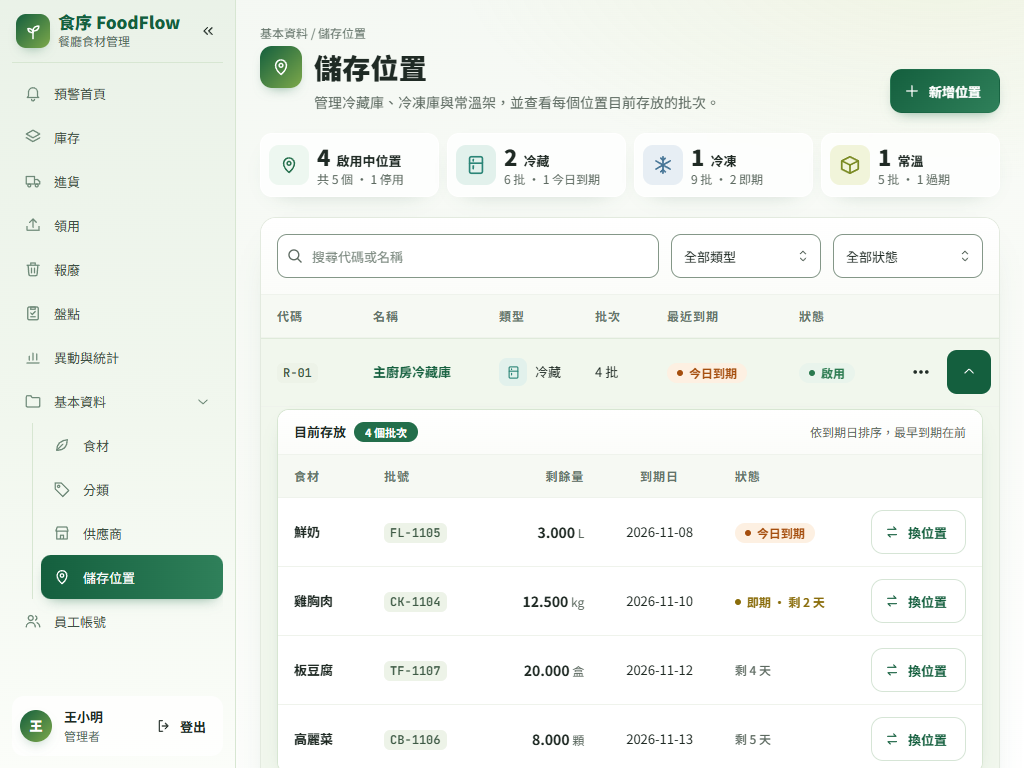
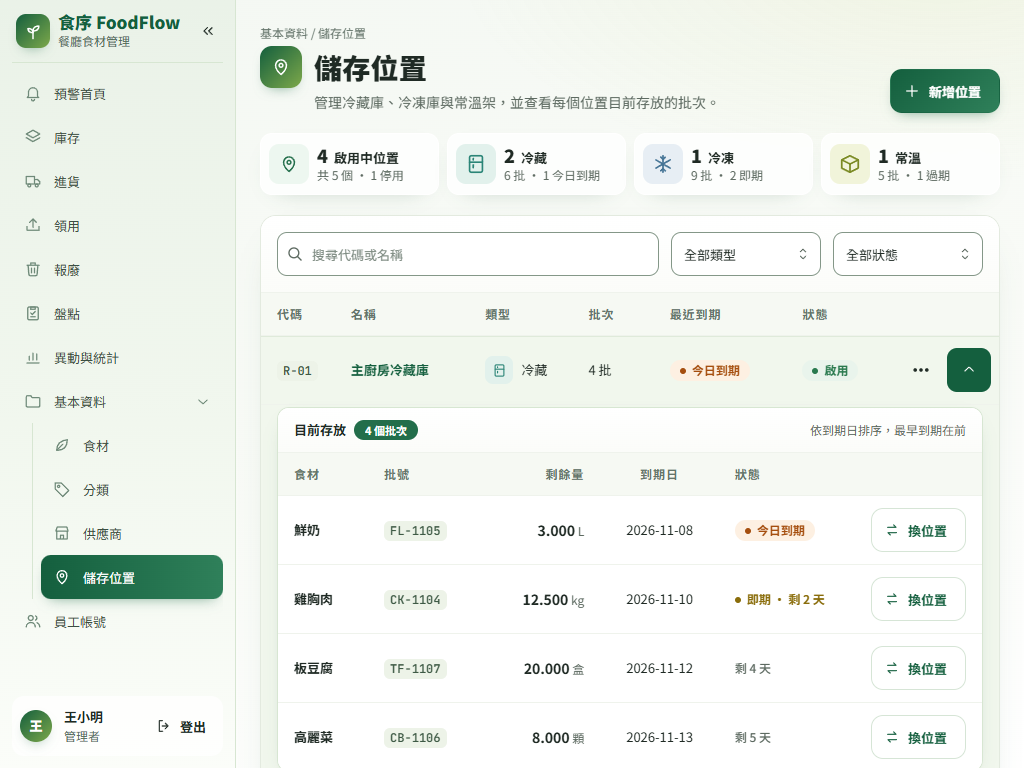
style(ui): 位置表欄寬往左分散、摘要數字縮小、下拉選單加動畫、領用紀錄操作欄置中

diff --git a/frontend/src/features/storage_location/pages/StorageLocationsPage.tsx b/frontend/src/features/storage_location/pages/StorageLocationsPage.tsx
@@ -81,7 +81,7 @@ function SummaryCard({ icon, label, value, note, index }: {
       {icon}
       <Box style={{ minWidth: 0, whiteSpace: "nowrap" }}>
         <Group gap={6} wrap="nowrap" align="baseline">
-          <Text fz={22} fw={800} lh={1.1} data-summary-value>{value}</Text>
+          <Text fz={18} fw={800} lh={1.2} data-summary-value>{value}</Text>
           <Text fz="sm" fw={600} truncate>{label}</Text>
         </Group>
         {/* 數字更大時以刪節號收尾，不換行也不溢出卡片。 */}
@@ -309,8 +309,9 @@ export function StorageLocationsPage() {
   const columnCount = 7;
   const list = () => {
     if (layout === "table") return <DataTable flush head={<>
-      <Table.Th w={96}>代碼</Table.Th><Table.Th>名稱</Table.Th><Table.Th w={96}>類型</Table.Th>
-      <Table.Th w={72}>批次</Table.Th><Table.Th w={132}>最近到期</Table.Th><Table.Th w={92}>狀態</Table.Th>
+      {/* 名稱只拿剩下的寬度（約四分之一），右側四欄往左分散，不會擠在一起。 */}
+      <Table.Th w="10%">代碼</Table.Th><Table.Th>名稱</Table.Th><Table.Th w="14%">類型</Table.Th>
+      <Table.Th w="11%">批次</Table.Th><Table.Th w="18%">最近到期</Table.Th><Table.Th w="12%">狀態</Table.Th>
       <Table.Th w={isAdmin ? 124 : 76}><VisuallyHidden>操作與批次</VisuallyHidden></Table.Th>
     </>}>
       {items.map((location, index) => {

diff --git a/frontend/src/app/theme.ts b/frontend/src/app/theme.ts
@@ -74,6 +74,8 @@ const green = ramp("#e9f4ec", "#2a7a4f", "#1f5e3c");
 
 export const theme = createTheme({
   primaryColor: "forest",
+  // 系統設定「減少動態」時略過 Mantine 元件的轉場（下拉選單、選單、對話框）。
+  respectReducedMotion: true,
   // 實心元件用 index 8（#236E4B，白字 6.17:1），淺色變體的文字也用 index 8。
   primaryShade: { light: 8, dark: 8 },
   colors: {
@@ -133,7 +135,11 @@ export const theme = createTheme({
     }),
     TextInput: TextInput.extend({ styles: { input: { minHeight: 44 } } }),
     PasswordInput: PasswordInput.extend({ styles: { input: { minHeight: 44 } } }),
-    Select: Select.extend({ styles: { input: { minHeight: 44 } } }),
+    // 下拉選單展開時淡入並稍微放大，跟「⋯」選單一樣有動畫；系統設定減少動態時 Mantine 會略過。
+    Select: Select.extend({
+      defaultProps: { comboboxProps: { transitionProps: { transition: "pop", duration: 160 } } },
+      styles: { input: { minHeight: 44 } },
+    }),
     Modal: Modal.extend({
       defaultProps: {
         radius: "xl", shadow: "lg", padding: 24,

diff --git a/frontend/src/features/issue/components/RecentIssues.tsx b/frontend/src/features/issue/components/RecentIssues.tsx
@@ -85,7 +85,7 @@ export function RecentIssues() {
           <Table.Th>食材</Table.Th>
           <Table.Th>批次與數量</Table.Th>
           <Table.Th>操作者</Table.Th>
-          <Table.Th ta="right">操作</Table.Th>
+          <Table.Th ta="center" w={1} style={{ whiteSpace: "nowrap" }}>操作</Table.Th>
         </>}>
           {records.data.items.map((record, index) => {
             const reversed = record.reversal;
@@ -107,7 +107,8 @@ export function RecentIssues() {
                 </Text>}
               </Stack></Table.Td>
               <Table.Td><Text size="sm">{record.operator_name}</Text></Table.Td>
-              <Table.Td ta="right">
+              {/* 欄寬貼齊按鈕，標題與「沖銷」「已沖銷」都置中，上下才對得齊。 */}
+              <Table.Td ta="center">
                 {reversed
                   ? <Badge color="gray" variant="outline" className={motion.reveal}>已沖銷</Badge>
                   : <Button variant="default" size="sm" h={44} className={motion.press}

diff --git a/docs/design/DESIGN.md b/docs/design/DESIGN.md
@@ -423,7 +423,7 @@ components:
 ### 卡片
 
 - **主卡片**：白底、`{rounded.xl}`、半透明白框、層級 2 陰影、`overflow: hidden`，裡面通常是工具列加表格。
-- **摘要卡**：用在頁首下方的統計列。左側放 40px 圖示方塊，卡片高度貼齊圖示：右側兩行，第一行是數值（22px / 800）加標籤（14px / 600），第二行是補充說明（`caption`、`text-muted`，例如「9 批 · 2 即期」）。數值是**目前篩選範圍的總數**。電腦與平板橫向排 4 欄，手機排 2 欄。
+- **摘要卡**：用在頁首下方的統計列。左側放 40px 圖示方塊，卡片高度貼齊圖示：右側兩行，第一行是數值（18px / 800）加標籤（14px / 600），第二行是補充說明（`caption`、`text-muted`，例如「9 批 · 2 即期」）。數值是**目前篩選範圍的總數**。電腦與平板橫向排 4 欄，手機排 2 欄。
 - **手機清單卡**：取代表格列。第一行左邊是名稱（`body-strong`），右邊是狀態標籤；第二行是代碼與次要欄位（`caption`）；列內操作放在底部，維持 44px 高。卡片 `{rounded.lg}`、層級 1 陰影，卡片之間相距 `{spacing.3}`。
 - 卡片裡不再放卡片，需要分組時用巢狀面板。
 
